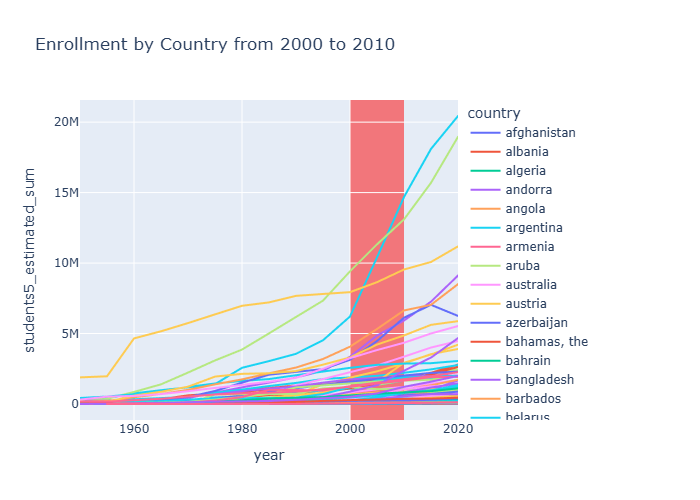
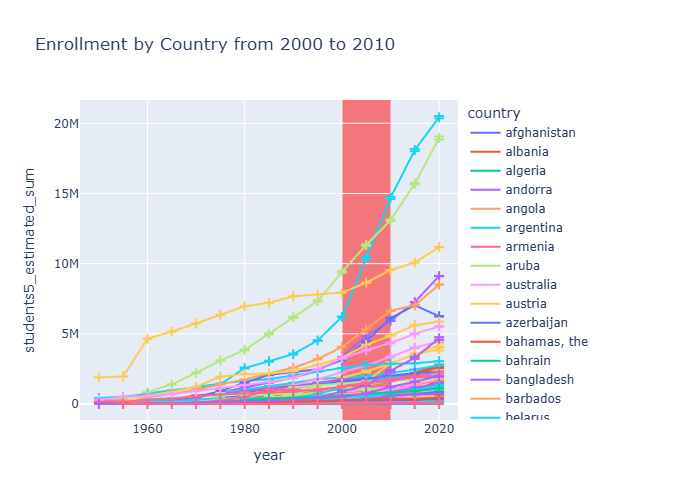
had some thoughts, add some error bars, did some percent change plotting, scaled the world plot a bit better. Everything still needs cleanup

diff --git a/main.py b/main.py
@@ -18,6 +18,8 @@ class HistoricalEventFinder:
             agg(students5_estimated_mean=('students5_estimated', 'mean'),
                 students5_estimated_std=('students5_estimated', 'std'),
                 students5_estimated_sum=('students5_estimated', 'sum')).reset_index()
+        
+        self.df["percent_change"]=self.df['students5_estimated_sum'].pct_change()*100
 
     def plot_line_chart(self, start_year, end_year):
         title = "Enrollment by Country from " + str(start_year)+ " to " +  str(end_year)
@@ -26,7 +28,8 @@ class HistoricalEventFinder:
                 x="year", 
                 y="students5_estimated_sum", 
                 color="country", # Creates a separate line for each unique value in this column
-                title=title
+                title=title,
+                error_y="students5_estimated_std",
             )
 
                 # Add a vertical shaded block between X-coordinates 2 and 3
@@ -50,7 +53,8 @@ class HistoricalEventFinder:
                 x="year", 
                 y="students5_estimated_sum", 
                 color="incomegroup", # Creates a separate line for each unique value in this column
-                title=title
+                title=title,
+                error_y="students5_estimated_std"
             )
 
                 # Add a vertical shaded block between X-coordinates 2 and 3
@@ -77,7 +81,7 @@ class HistoricalEventFinder:
             locationmode='country names',
             color="rate_of_change",
             color_continuous_scale="Viridis",
-            range_color=(change_during_event["rate_of_change"].min(), change_during_event["rate_of_change"].max()),
+            range_color=(change_during_event["rate_of_change"].min(), change_during_event["rate_of_change"].max()/3),
             title= title
             
         )
@@ -111,6 +115,17 @@ class HistoricalEventFinder:
         historyObj.plot_line_chart( start_year, end_year)
         historyObj.plot_line_chart_by_income( start_year, end_year)
         self.plot_change_map( start_year, end_year)
+
+        fig = px.bar(self.df, x="year", 
+                y="percent_change", color="incomegroup", title="Long-Form Input", hover_data=['country'])
+        fig.add_vrect(
+            x0=start_year, x1=end_year, 
+            fillcolor="red", 
+            opacity=0.5, 
+            layer="below", 
+            line_width=0
+        )
+        fig.show()
 
 if __name__ == "__main__":
     historyObj = HistoricalEventFinder(r'c:\Users\james\Documents\Repos\cbds-take-home\data\enrollments.csv')

diff --git a/notes.md b/notes.md
@@ -32,5 +32,6 @@ Things I learned
 - Data set is every 5 years
 - 
 - Each country is sorted into 1 income group
-- The income group with the greatest change across 2000-2010 was upper-middle income, this would need further investigation, normalization by population of this group (China is upper middle income, likely driving this)
-- Second largest increase is lower-middle income, with the same limitation as before, as India is lower middle income
+- The income group with the greatest change across 2000-2010 was upper-middle income, this would need further investigation, normalization by population of this group (China, Brazil, Mexico is upper middle income, likely driving this)
+- Second largest increase is lower-middle income, with the same limitation as before, as India and Philipines is lower middle income
+- If we look at things in a somewhat normalized way, in percent change, you can see low income groups countries rate went down across the 2008 financial crisis, and continued to drop beyond